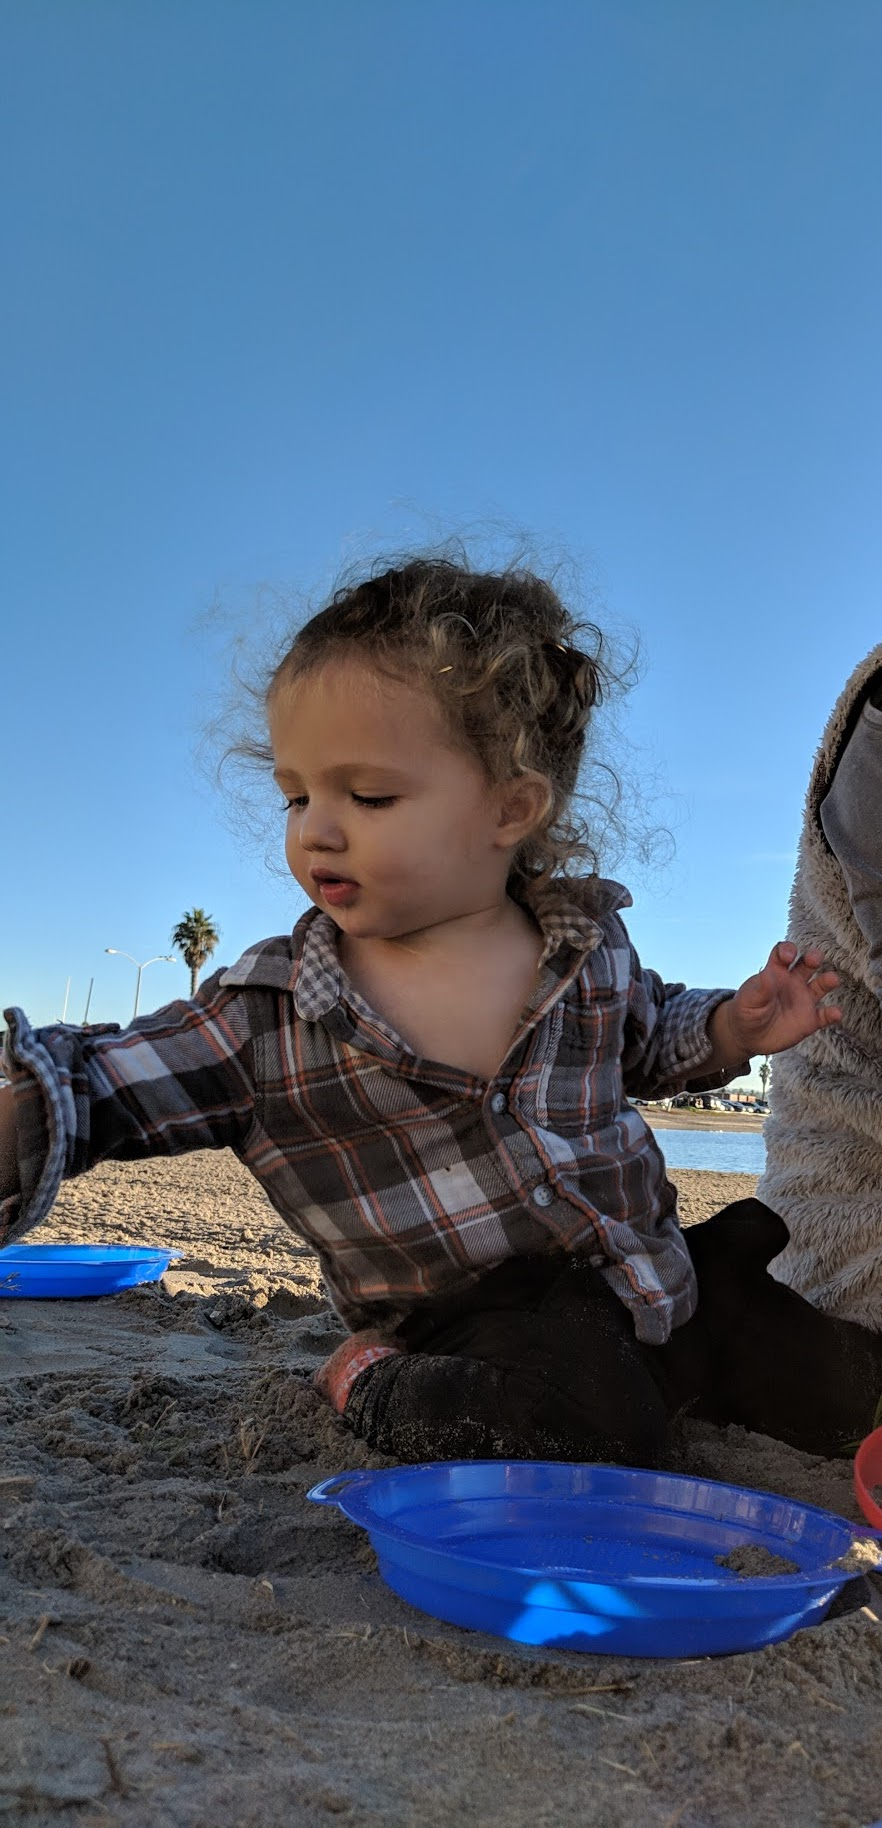
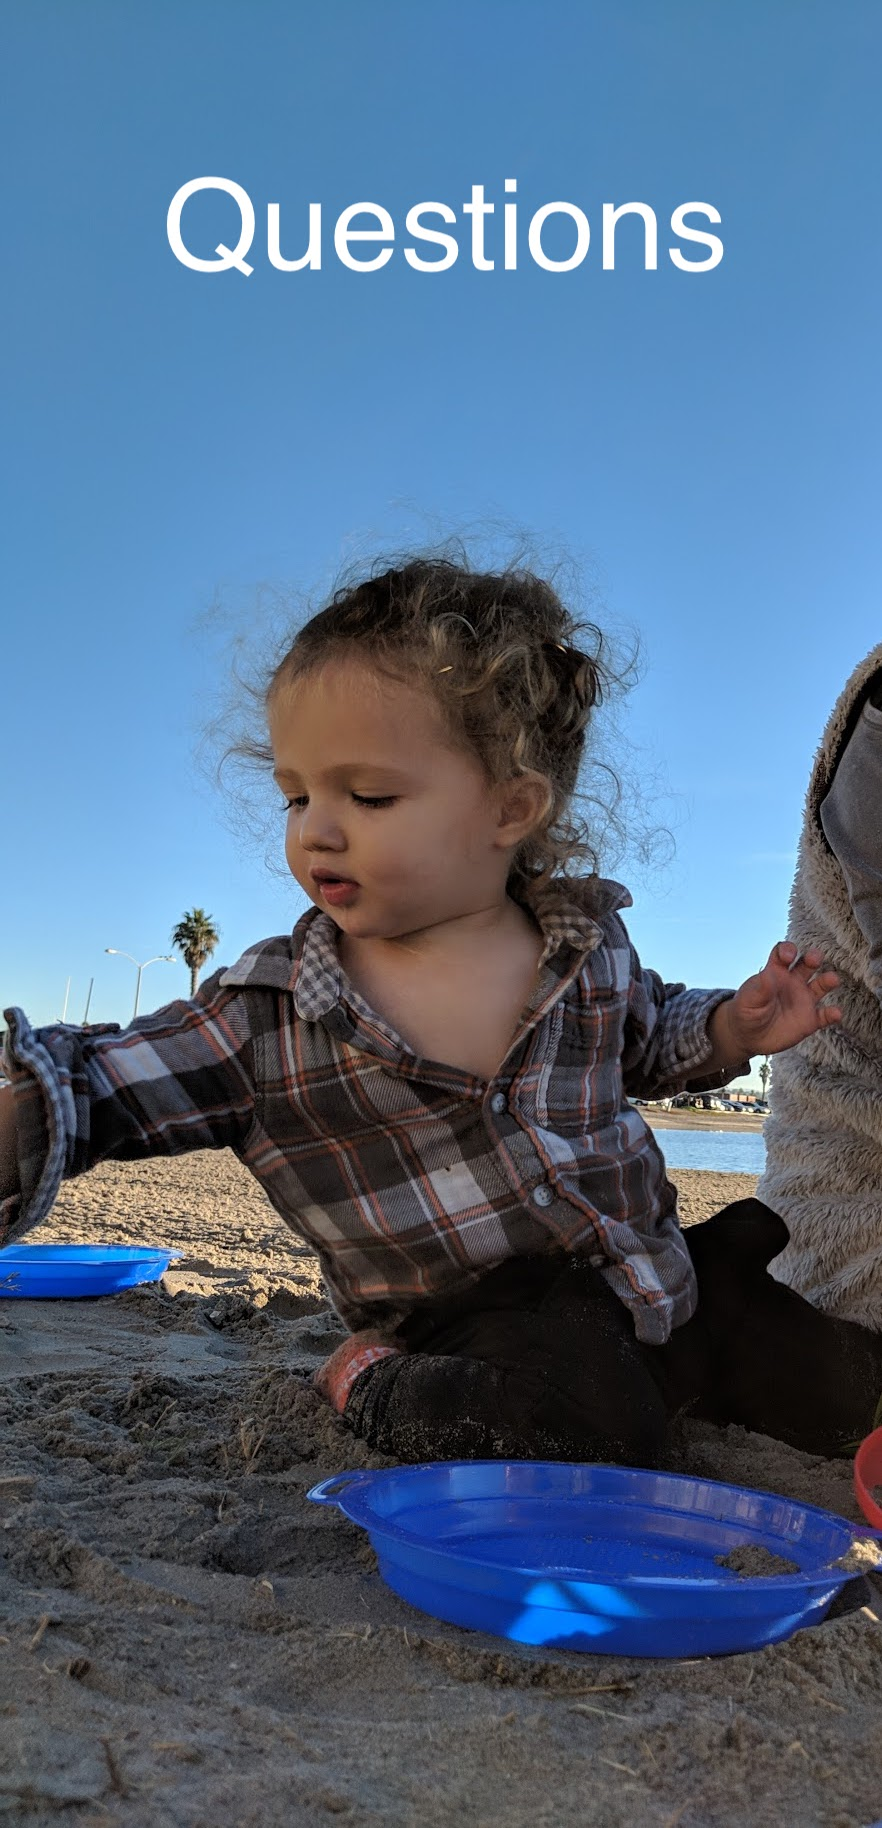
added more acknowledgements

Changed region(s): [[0.1837, 0.0935, 0.8265, 0.1559]]

diff --git a/SFN18.html b/SFN18.html
@@ -6,6 +6,7 @@
     <link rel="stylesheet" href="fonts/quadon/quadon.css">
     <link rel="stylesheet" href="fonts/gentona/gentona.css">
     <link rel="stylesheet" href="slides_style.css">
+    <link rel="stylesheet" href="font-awesome.min.css">
     <script type="text/javascript" src="assets/plotly/plotly-latest.min.js"></script>
   </head>
   <body>
@@ -30,8 +31,11 @@ Joshua T. Vogelstein
 <img src="images/funding/jhu_bme_blue.png" STYLE="HEIGHT:95px;"/>
 <img src="images/funding/KNDI.png" STYLE="HEIGHT:95px;"/>
 
-.foot[[jovo@jhu.edu](mailto:jovo at jhu dot edu)
-  |  <http://neurodata.io/talks/SFN18.html> | [@neuro_data](https://twitter.com/neuro_data) ]
+<br> 
+
+.foot[e: [jovo@jhu.edu](mailto:jovo at jhu dot edu)<br>
+w: <http://neurodata.io/talks/SFN18.html><br>
+t: [@neuro_data](https://twitter.com/neuro_data) ]
 
 
 ---
@@ -566,6 +570,16 @@ class: top, left
   <div class="centered">Michael Milham</div>
 </div>
 
+<div class="container">
+  <img src="faces/al_johnson.jpg"/>
+  <div class="centered">G. Allan Johnson</div>
+</div>
+
+<div class="container">
+  <img src="faces/scott_emmons.jpg"/>
+  <div class="centered">Scott Emmons</div>
+</div>
+
 
 <span style="font-size:200%; color:red;">&hearts;, &#129409;, &#128106;, &#127758;, &#127756;</span>
 
@@ -583,11 +597,9 @@ class: top, left
 
 
 ---
-class: center
 
 
-<img src="images/lion_beach.jpg" STYLE="HEIGHT:600px;"/>
-questions?
+<img src="images/lion_beach.jpg" STYLE="Position:absolute; TOP:0px; HEIGHT:700px; LEFT:300px"/>
 
 
 
